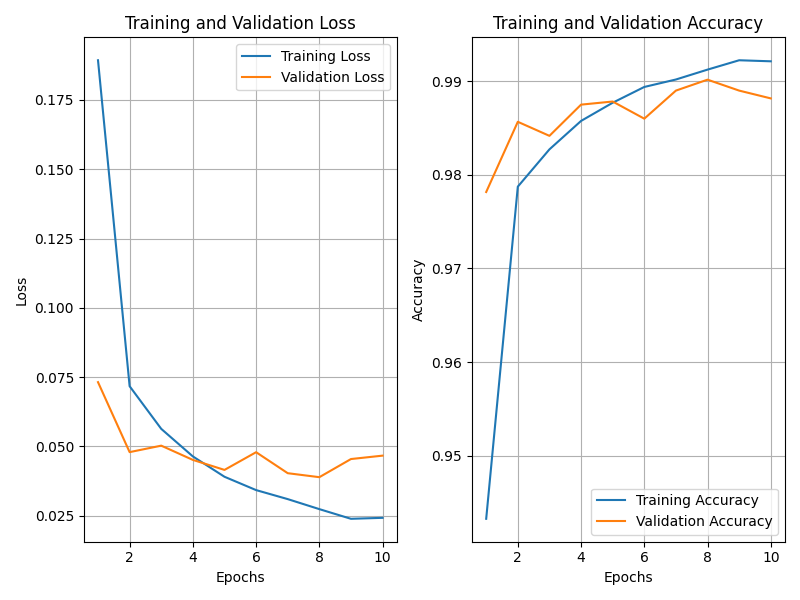
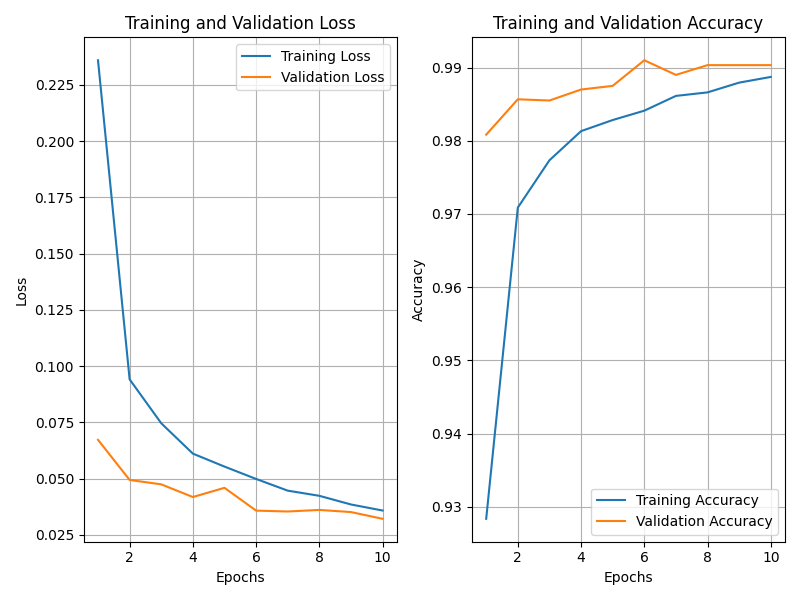
worked on project
- created visualistaion jupyter nottebook
- uploaded some unseen data to test model on further
- calculated list of proababilities to show confidence in predictions

diff --git a/helper_funcs.py b/helper_funcs.py
@@ -2,6 +2,8 @@ import torch
 from model import ANN
 from torchvision.transforms import v2
 import matplotlib.pyplot as plt
+import torch.nn.functional as F
+import numpy as np
 
 def load_model(model, model_path):
     model.load_state_dict(torch.load(model_path, weights_only=True))
@@ -10,9 +12,11 @@ def load_model(model, model_path):
 
 def predict_digit(model, img_tensor):
     with torch.no_grad():
-        out = model(img_tensor)
-        _, preds = torch.max(out.data,1)
-        return preds.item()
+        logits = model(img_tensor)
+        probabilities = F.softmax(logits, dim=1)
+        confidence , preds = torch.max(probabilities, 1)
+        probabilities = [round(prob * 100, 2) for prob in probabilities.squeeze().tolist()]
+        return preds.item(), probabilities
     
 def preprocess_img(image):
     transforms = v2.Compose([

diff --git a/run_gui.py b/run_gui.py
@@ -1,3 +1,4 @@
+import torch
 import tkinter as tk
 from model import ANN, CNN
 from gui import DigitalCanvas
@@ -17,8 +18,8 @@ def main():
 
     def predict():
         img_tensor = preprocess_img(digit_canvas.image)
-        prediction = predict_digit(model, img_tensor)
-        print(f"Predicted Digit: {prediction}")
+        prediction, probabilities = predict_digit(model, img_tensor)
+        print(f"Predicted Digit: {prediction}, {probabilities}")
 
     clear_button = tk.Button(root, text="Clear", command=digit_canvas.clear)
     clear_button.pack()

diff --git a/model.py b/model.py
@@ -32,11 +32,13 @@ class CNN(nn.Module):
             nn.BatchNorm2d(32),
             nn.ReLU(),
             nn.MaxPool2d(2,2),
+            nn.Dropout(0.2),
 
             nn.Conv2d(32, 64, kernel_size=3, padding=1),
             nn.BatchNorm2d(64),
             nn.ReLU(),
-            nn.MaxPool2d(2,2)
+            nn.MaxPool2d(2,2),
+            nn.Dropout(0.2),
         )
 
         self.fc_layers = nn.Sequential(
